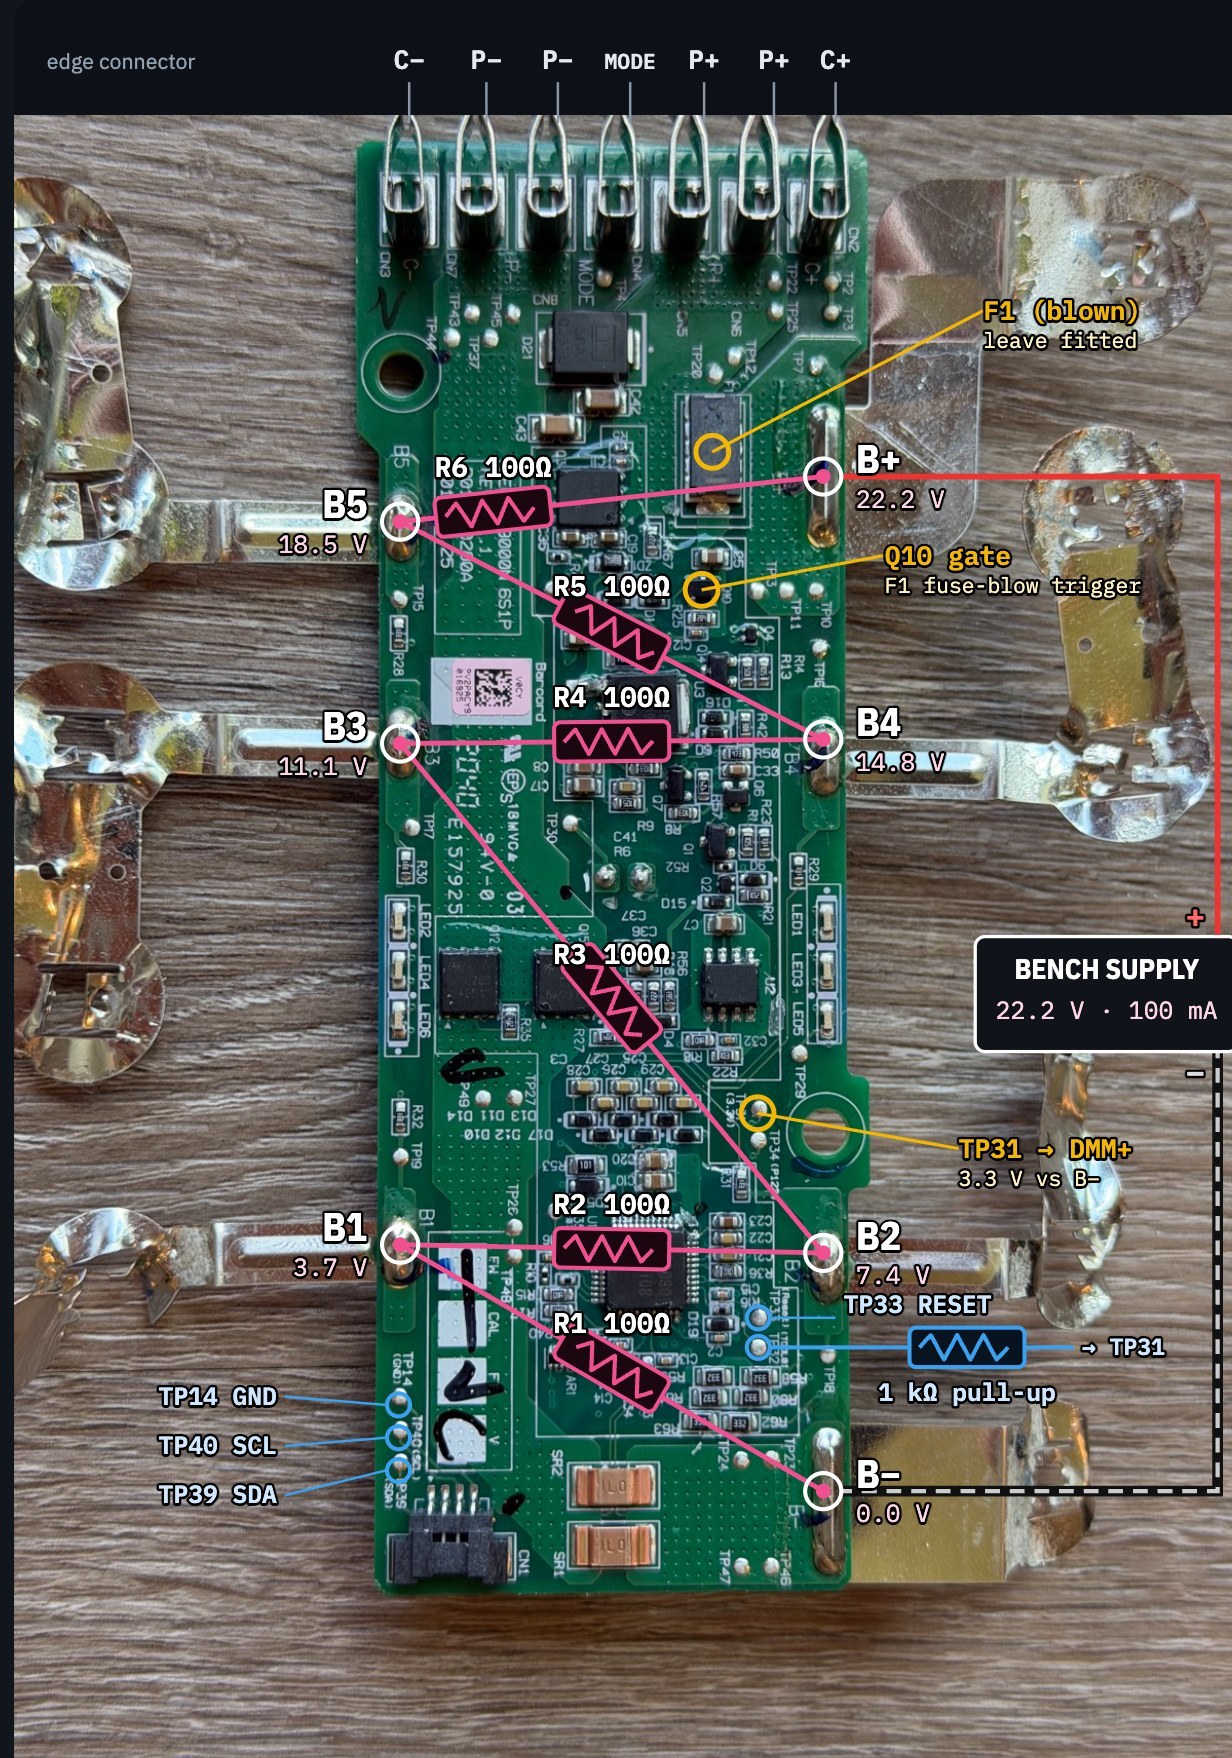
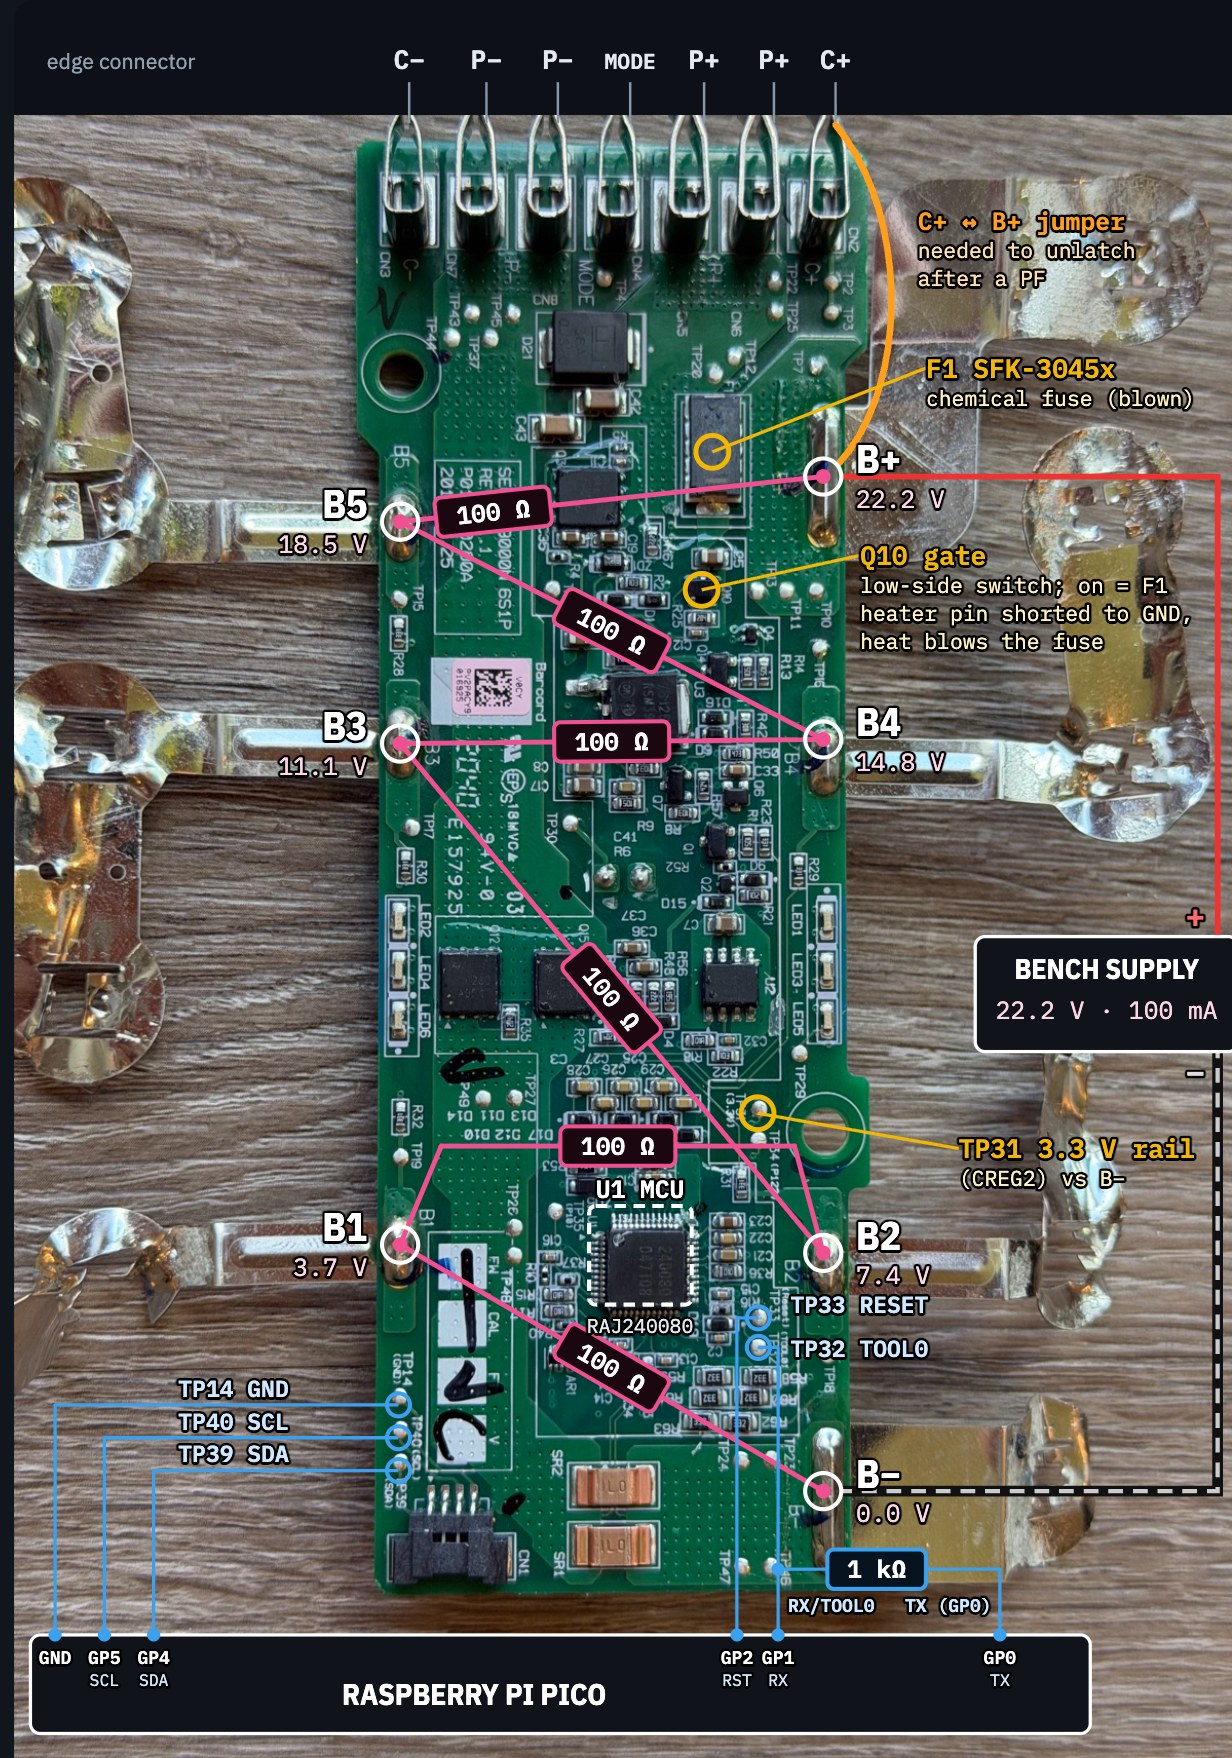
Bench wiring diagram: Pico pin mapping, TOOL0 TX/RX 1k, F1 model, Q10 note, MCU, C+/B+ jumper

diff --git a/README.md b/README.md
@@ -11,7 +11,7 @@ the BMS over SMBus, dump its flash, and clear the PF so the board can be reused 
 
 ![Bench wiring: 6 × 100 Ω ladder, supply, TOOL0 1 kΩ pull-up](images/bench-wiring.jpg)
 
-*Bench wiring: six 100 Ω resistors between B−…B+ stand in for the cells (22.2 V, 100 mA limit). TOOL0 (TP32) has an on-board 1 kΩ pull-up to TP31 (3.3 V). Q10 is the F1 fuse-blow trigger FET.*
+*Bench wiring: six 100 Ω resistors between B−…B+ stand in for the cells (22.2 V, 100 mA limit). Pico GP4/GP5/GP2/GP1/GND go to TP39/TP40/TP33/TP32/TP14; TX (GP0) reaches TOOL0 through a 1 kΩ resistor. Q10 is the low-side switch that fires F1 (SFK-3045x); C+ is jumpered to B+ to unlatch after a PF.*
 
 ## Status
 
